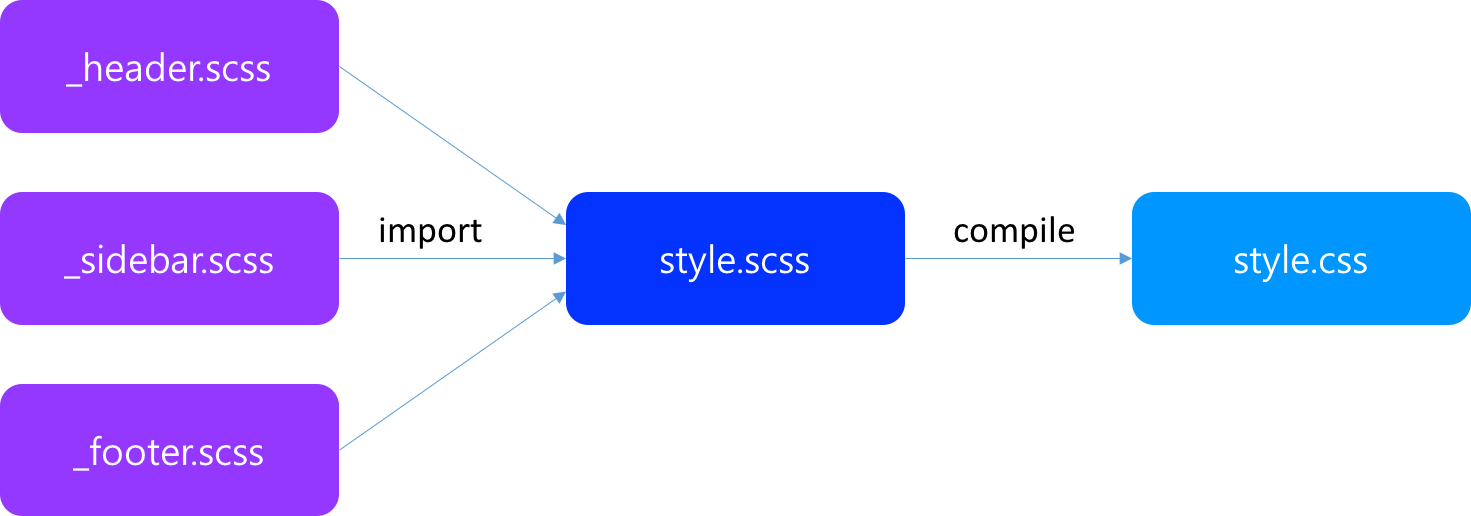
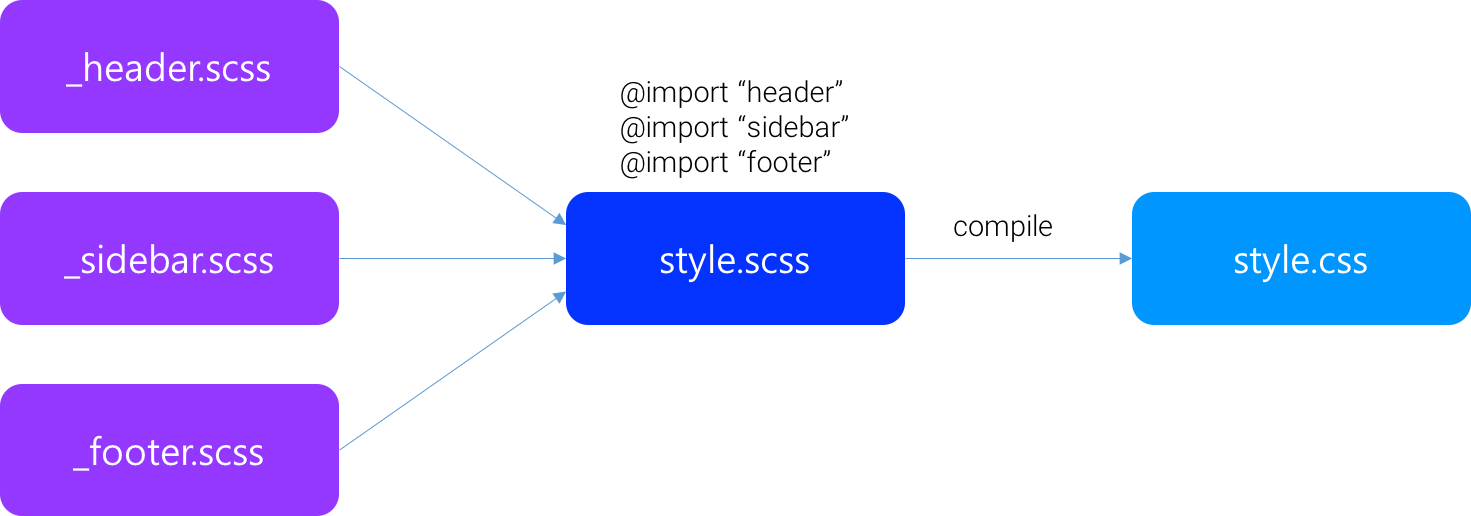
new

Changed region(s): [[0.4283, 0.155, 0.5812, 0.3411], [0.6424, 0.4031, 0.7342, 0.4961], [0.2447, 0.4341, 0.3365, 0.4961]]

diff --git a/_posts/2016-01-17-Sass-css-extention.md b/_posts/2016-01-17-Sass-css-extention.md
@@ -100,10 +100,10 @@ $family: unquote("Droid+Sans");
 @import "foo";
 ```
 
-partial된 Sass 파일명 선두에 붙인 &#95의 의미는 import는 수행하되 CSS로의 컴파일은 수행하지 말라는 의미를 갖는다. 따라서 partial은 import시에는 CSS 파일로 컴파일되지 않기 때문에 최종적으로 CSS로 컴파일을 수행할 Sass 파일로 import된다.
+partial된 Sass 파일명 선두에 붙인 &#95;의 의미는 import는 수행하되 CSS로의 컴파일은 수행하지 말라는 의미를 갖는다. 따라서 partial은 import시에는 CSS 파일로 컴파일되지 않기 때문에 최종적으로 CSS로 컴파일을 수행할 Sass 파일로 import된다.
 
 ![partial](/img/partial.png)
-{: style="max-width:500px; margin:10px auto;"}
+{: style="max-width:550px; margin:10px auto;"}
 
 
 
